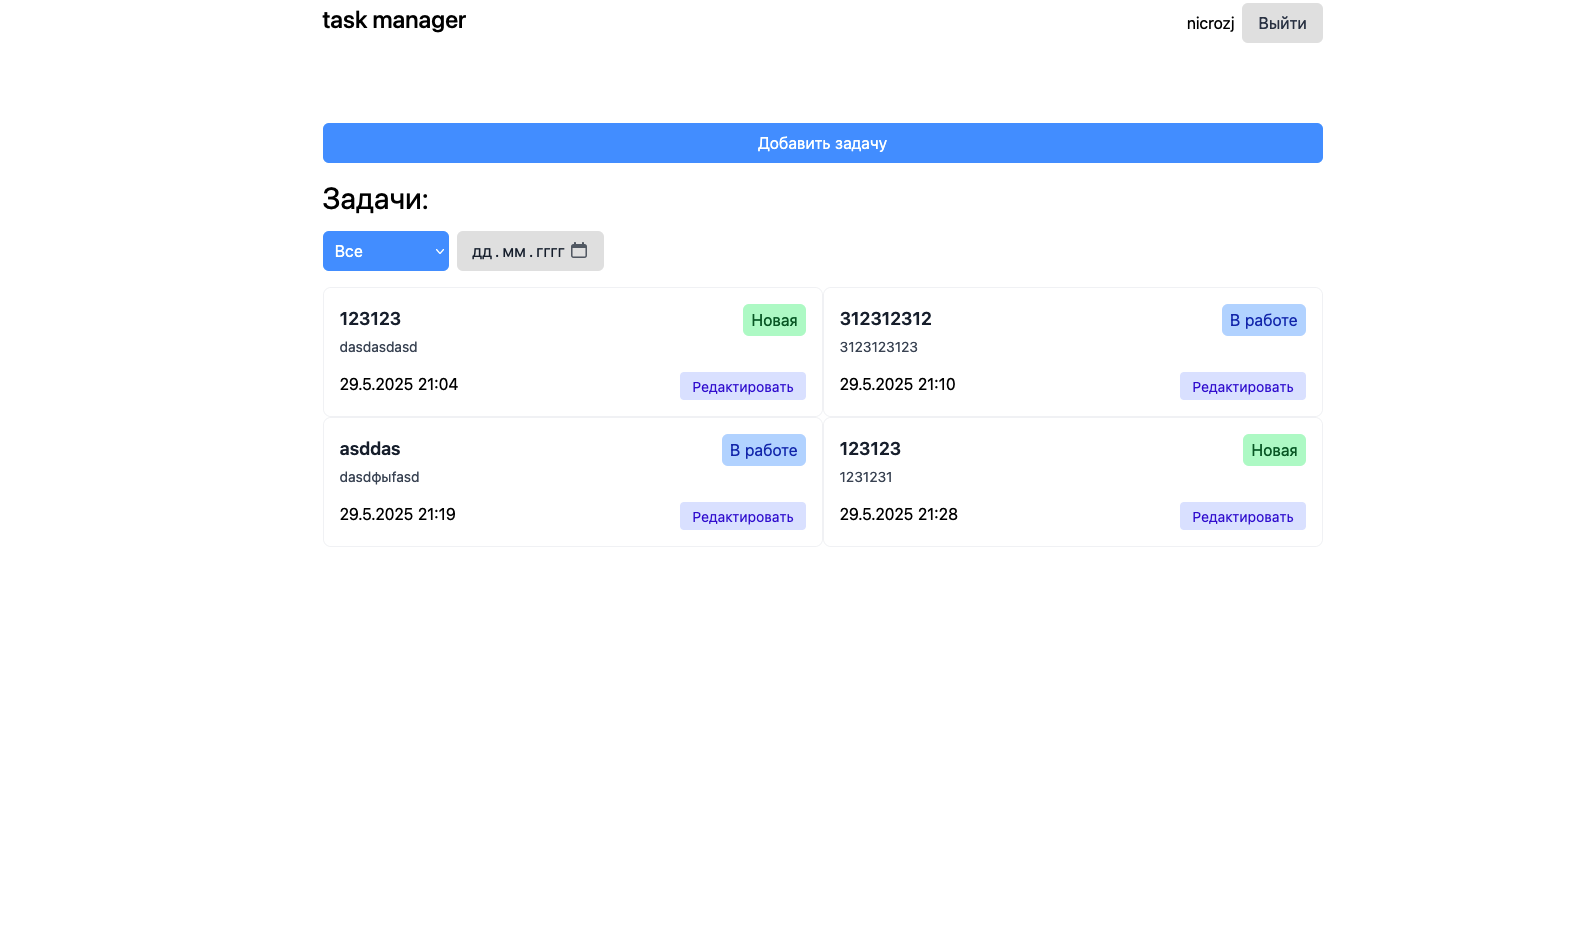
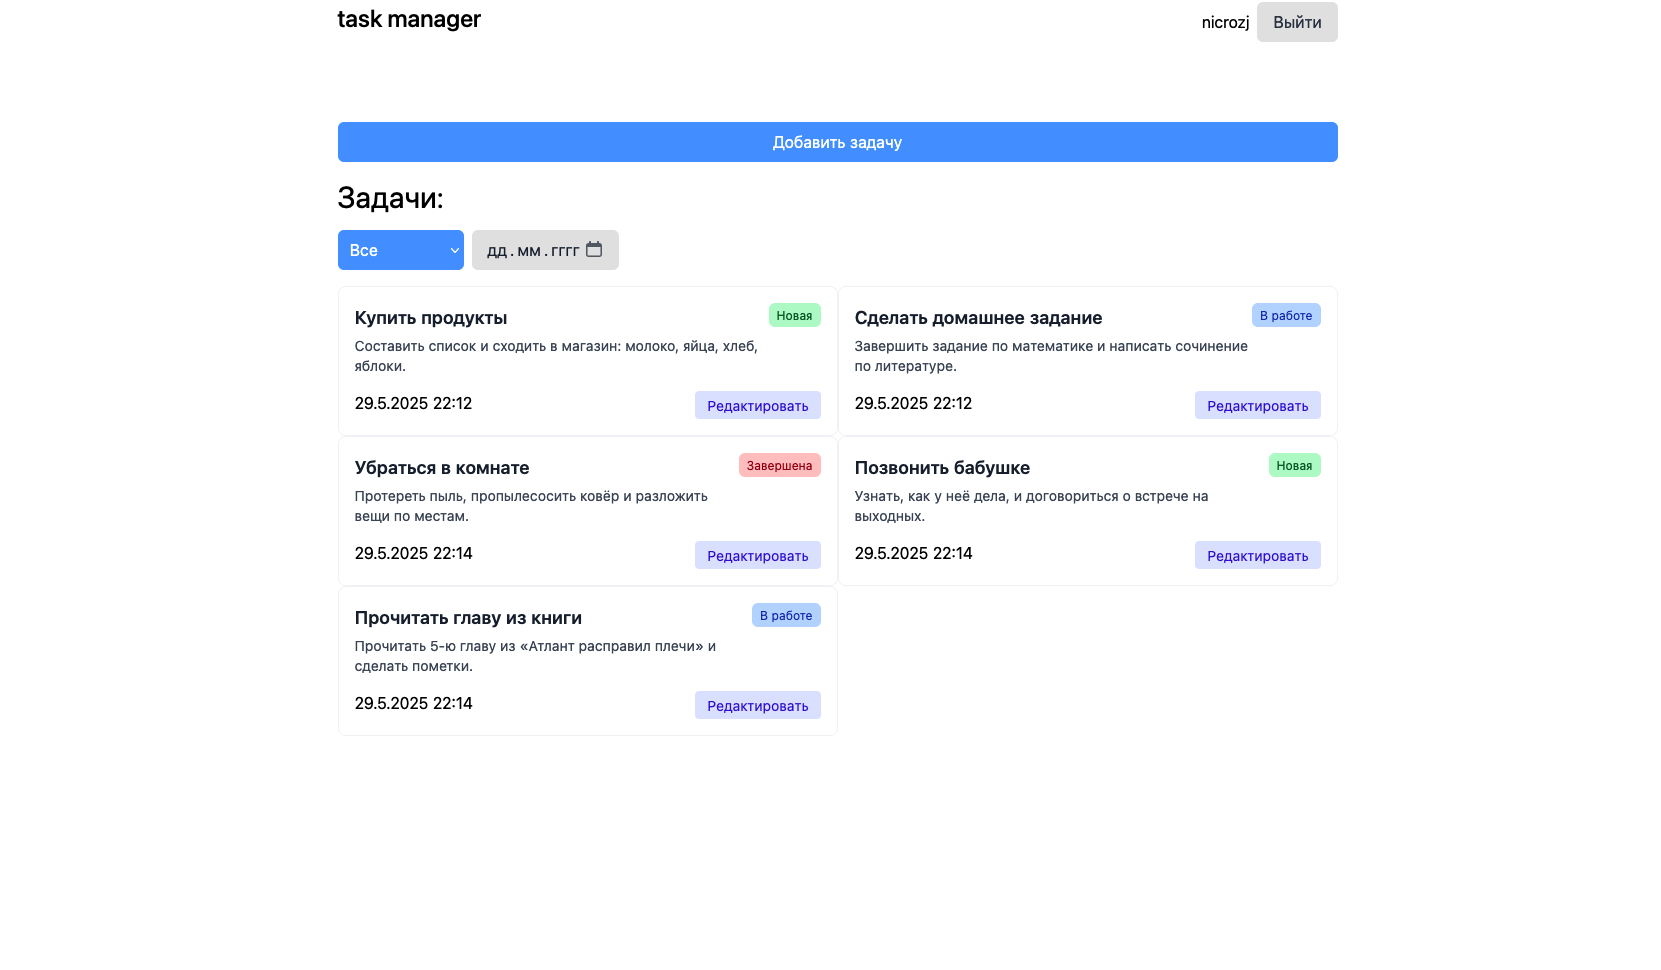
fix status + change screenshot

diff --git a/frontend/src/components/tasks/TaskCard.vue b/frontend/src/components/tasks/TaskCard.vue
@@ -46,7 +46,7 @@ function formatDate(isoString: string): string {
       </div>
       <span
         :class="statusStyles[props.task.status]"
-        class="px-2 py-1 rounded-md"
+        class="px-2 py-1 rounded-md text-xs text-nowrap"
         >{{ statusLabels[props.task.status] }}</span
       >
     </div>
